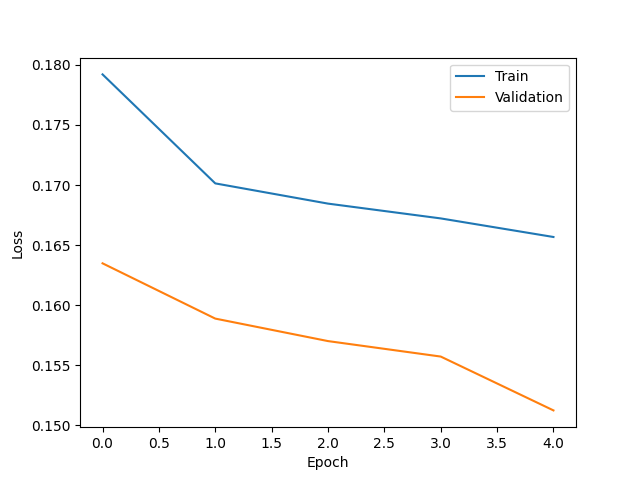
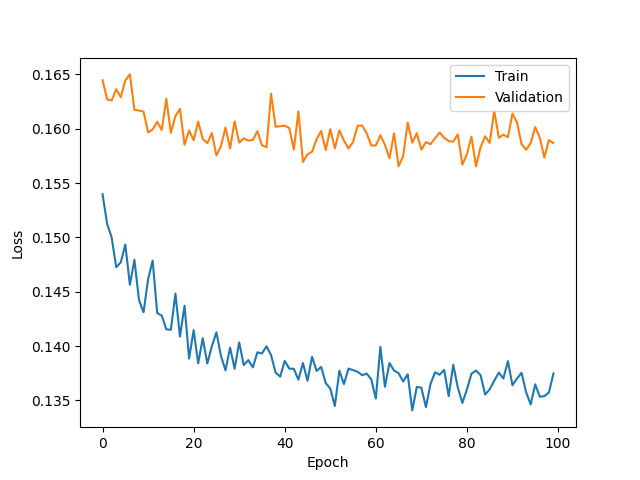
fix

diff --git a/src/make_data.py b/src/make_data.py
@@ -61,6 +61,10 @@ class DatasetGenerator:
                 propensity_score,
                 dataset["y_r"],
                 dataset["y_c"],
+                dataset["true_mu_r_1"],
+                dataset["true_mu_r_0"],
+                dataset["true_mu_c_1"],
+                dataset["true_mu_c_0"],
             )
             dataset |= self.culculate_ipw(
                 dataset["T"], propensity_score, dataset["y_r"], dataset["y_c"]
@@ -100,7 +104,7 @@ class DatasetGenerator:
         np.random.seed(self.seed)
         std = self.ps_delta * np.sqrt(np.pi / 2)
         T_prob = sigmoid(
-            (np.sum(features, axis=1) - 2.0) / 0.7
+            (np.sum(features, axis=1) - 2.0) / 1
             + np.random.normal(0, std, size=len(features))
         )
         T_prob = T_prob.clip(0.01, 0.99)
@@ -368,6 +372,10 @@ class DatasetGenerator:
         T_prob: NDArray[Any],
         y_r: NDArray[Any],
         y_c: NDArray[Any],
+        true_mu_r_1: NDArray[Any],
+        true_mu_r_0: NDArray[Any],
+        true_mu_c_1: NDArray[Any],
+        true_mu_c_0: NDArray[Any],
     ) -> Dict[str, NDArray[Any]]:
         # y_rとy_cの期待値を予測するモデルを学習
         treatment_mask = T == 1
@@ -392,21 +400,29 @@ class DatasetGenerator:
             treatment_features, treatment_visit
         )
 
+        mu_r_0_pred = mu_r_0.predict_proba(features)[:, 1]
+        mu_r_1_pred = mu_r_1.predict_proba(features)[:, 1]
+        mu_c_0_pred = mu_c_0.predict_proba(features)[:, 1]
+        mu_c_1_pred = mu_c_1.predict_proba(features)[:, 1]
+
         doubly_robust = {}
         doubly_robust["y_r_dr"] = np.where(
             T == 1,
-            (y_r - mu_r_1.predict_proba(features)[:, 1]) / T_prob
-            + mu_r_1.predict_proba(features)[:, 1],
-            (y_r - mu_r_0.predict_proba(features)[:, 1]) / (1 - T_prob)
-            + mu_r_0.predict_proba(features)[:, 1],
+            (y_r - mu_r_1_pred) / T_prob + mu_r_1_pred,
+            (y_r - mu_r_0_pred) / (1 - T_prob) + mu_r_0_pred,
         )
         doubly_robust["y_c_dr"] = np.where(
             T == 1,
-            (y_c - mu_c_1.predict_proba(features)[:, 1]) / T_prob
-            + mu_c_1.predict_proba(features)[:, 1],
-            (y_c - mu_c_0.predict_proba(features)[:, 1]) / (1 - T_prob)
-            + mu_c_0.predict_proba(features)[:, 1],
+            (y_c - mu_c_1_pred) / T_prob + mu_c_1_pred,
+            (y_c - mu_c_0_pred) / (1 - T_prob) + mu_c_0_pred,
         )
+        rmse_mu_r_0 = np.sqrt(np.mean((true_mu_r_0 - mu_r_0_pred) ** 2))
+        rmse_mu_r_1 = np.sqrt(np.mean((true_mu_r_1 - mu_r_1_pred) ** 2))
+        rmse_mu_c_0 = np.sqrt(np.mean((true_mu_c_0 - mu_c_0_pred) ** 2))
+        rmse_mu_c_1 = np.sqrt(np.mean((true_mu_c_1 - mu_c_1_pred) ** 2))
+        # import pdb
+
+        # pdb.set_trace()
 
         return doubly_robust
 

diff --git a/src/trainer.py b/src/trainer.py
@@ -14,9 +14,10 @@ torch.manual_seed(42)
 
 
 class Trainer:
-    def __init__(self, num_epochs: int, lr: float):
+    def __init__(self, num_epochs: int, lr: float, weight_decay: float = 0.0) -> None:
         self.num_epochs = num_epochs
         self.lr = lr
+        self.weight_decay = weight_decay
 
     def train(
         self,
@@ -25,7 +26,9 @@ class Trainer:
         model: nn.Module,  # type: ignore
         method: str,
     ) -> nn.Module:  # type: ignore
-        optimizer = AdamW(model.parameters(), lr=self.lr)
+        optimizer = AdamW(
+            model.parameters(), lr=self.lr, weight_decay=self.weight_decay
+        )
         scheduler = get_cosine_schedule_with_warmup(
             optimizer,
             num_warmup_steps=0,
@@ -50,9 +53,17 @@ class Trainer:
                 loss = output["loss"].item()
                 total_train_loss += loss
                 count_batch += 1
-
-            scheduler.step()
+                scheduler.step()
+                average_loss = total_train_loss / count_batch
             train_loss_history.append(total_train_loss / count_batch)
+            # モデルのパラメータをprint
+            # if epoch % 10 == 0:
+            #     print(f"Parameters after epoch {epoch}:")
+            #     for name, param in model.named_parameters():
+            #         print(f"{name} - {param.size()}")
+            #         print(param.data)
+            #     import pdb; pdb.set_trace()
+
             model.eval()  # モデルを評価モードに設定
             total_val_loss = 0.0
             count_val_batch = 0

diff --git a/main.py b/main.py
@@ -17,13 +17,14 @@ def main(predict_ps: bool) -> None:
     delta = 0.0
     ps_delta = 0.0
     rct_ratio = 0.05
-    batch_size = 512
+    batch_size = 128
+    weight_decay = 1
     model_name = "Direct"
     model_params = {"input_dim": n_features}
     method = "DR"
     only_rct = True if method == "Direct_only_RCT" else False
-    num_epochs_list = [5, 300]
-    lr_list = [0.005, 0.00005]
+    num_epochs_list = [100, 300]
+    lr_list = [0.0001, 0.00005]
     dataset = DatasetGenerator(
         n_samples,
         n_features,
@@ -83,7 +84,9 @@ def main(predict_ps: bool) -> None:
             seed=seed,
         )
     trainer = Trainer(
-        num_epochs=num_epochs_list[int(only_rct)], lr=lr_list[int(only_rct)]
+        num_epochs=num_epochs_list[int(only_rct)],
+        lr=lr_list[int(only_rct)],
+        weight_decay=weight_decay,
     )
     model = trainer.train(train_dl=train_dl, val_dl=val_dl, model=model, method=method)
     trainer.save_model(model, f"model_{method}.pth")

diff --git a/src/model/direct.py b/src/model/direct.py
@@ -125,10 +125,10 @@ class DirectNonLinear(nn.Module):
         self.mlp = nn.Sequential(
             nn.Linear(input_dim, 2 * input_dim),
             nn.ReLU(),
-            nn.Dropout(0.1),
+            nn.Dropout(0.5),
             nn.Linear(2 * input_dim, input_dim),
             nn.ReLU(),
-            nn.Dropout(0.1),
+            nn.Dropout(0.5),
             # nn.Linear(input_dim, int(0.5 * input_dim)),
             # nn.ReLU(),
             # nn.Dropout(0.1),
